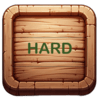
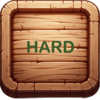
cleaner buttons

diff --git a/app/src/main/java/projet/approche/objet/ui/view/infoBar/InfoBar.java b/app/src/main/java/projet/approche/objet/ui/view/infoBar/InfoBar.java
@@ -1,40 +1,68 @@
 package projet.approche.objet.ui.view.infoBar;
 
+import java.awt.Image;
+
+import javafx.geometry.Insets;
+import javafx.scene.effect.ColorAdjust;
+import javafx.scene.image.ImageView;
 import javafx.scene.layout.BorderPane;
+import javafx.scene.layout.HBox;
 import javafx.scene.text.Font;
 import javafx.scene.text.Text;
 import projet.approche.objet.application.App;
+import projet.approche.objet.domain.valueObject.game.GameStarter;
+import projet.approche.objet.infrastructure.Infrastructure;
 import projet.approche.objet.ui.view.GameView;
 import projet.approche.objet.ui.view.Updateable;
+import projet.approche.objet.ui.view.imageResource.ButtonImageResource;
 
 public class InfoBar extends BorderPane implements Updateable {
 
 	private final Inventory inventory;
-	private final Button button;
+	private final Button playPauseButton;
 	private final App app;
 	private Text day = new Text();
 
 	public InfoBar(GameView gv, App app) {
 		this.inventory = new Inventory(app);
-		this.button = new Button(gv, app);
+		HBox buttonBox = new HBox();
+		buttonBox.setSpacing(15);
+		buttonBox.setPadding(new Insets(10));
+		this.playPauseButton = new Button(gv, app);
+		ImageView saveButton = new ImageView(ButtonImageResource.SAVE.getImage());
+
+		saveButton.setOnMouseClicked(e -> {
+			Infrastructure is = new Infrastructure();
+			is.save(app.getManager());
+		});
+
+		ColorAdjust colorAdjust = new ColorAdjust();
+		colorAdjust.setBrightness(-0.4);
+		saveButton.setOnMouseEntered(e -> {
+			saveButton.setEffect(colorAdjust);
+		});
+		saveButton.setOnMouseExited(e -> {
+			saveButton.setEffect(null);
+		});
+
+		buttonBox.getChildren().addAll(playPauseButton, saveButton);
 		day.setFill(javafx.scene.paint.Color.BLACK);
 		day.setFont(new Font(20));
 		day.getStyleClass().add("number");
 		day.setCache(true);
 		this.app = app;
 		this.setRight(inventory);
-		this.setTop(button);
-		// show a text with the current day of the game
+		this.setTop(buttonBox);
 	}
 
 	public void update() {
 		this.inventory.update();
-		this.button.update();
+		this.playPauseButton.update();
 		this.updateDay();
 	}
 
 	public void updateDay() {
-		day.setText("Day " + app.getDay());
+		day.setText("   Day " + app.getDay());
 		this.setLeft(day);
 	}
 }

diff --git a/app/src/main/java/projet/approche/objet/ui/view/LevelButtons.java b/app/src/main/java/projet/approche/objet/ui/view/LevelButtons.java
@@ -11,14 +11,14 @@ import projet.approche.objet.application.App;
 import projet.approche.objet.domain.valueObject.game.GameStarter;
 import projet.approche.objet.domain.valueObject.game.PremadeLevel;
 import projet.approche.objet.infrastructure.Infrastructure;
-import projet.approche.objet.ui.view.imageResource.LevelButtonImageResource;
+import projet.approche.objet.ui.view.imageResource.ButtonImageResource;
 
 public class LevelButtons extends VBox {
 
-	private static final ImageView easy = new ImageView(LevelButtonImageResource.EASY.getImage());
-	private static final ImageView normal = new ImageView(LevelButtonImageResource.NORMAL.getImage());
-	private static final ImageView hard = new ImageView(LevelButtonImageResource.HARD.getImage());
-	private static final ImageView load = new ImageView(LevelButtonImageResource.LOAD.getImage());
+	private static final ImageView easy = new ImageView(ButtonImageResource.EASY.getImage());
+	private static final ImageView normal = new ImageView(ButtonImageResource.NORMAL.getImage());
+	private static final ImageView hard = new ImageView(ButtonImageResource.HARD.getImage());
+	private static final ImageView load = new ImageView(ButtonImageResource.LOAD.getImage());
 
 	public LevelButtons(Stage stage) {
 		HBox levels = new HBox();

diff --git a/app/src/main/java/projet/approche/objet/ui/view/infoBar/Button.java b/app/src/main/java/projet/approche/objet/ui/view/infoBar/Button.java
@@ -1,6 +1,7 @@
 package projet.approche.objet.ui.view.infoBar;
 
 import javafx.geometry.Insets;
+import javafx.scene.effect.ColorAdjust;
 import javafx.scene.image.ImageView;
 import javafx.scene.layout.HBox;
 import javafx.scene.layout.VBox;
@@ -24,7 +25,6 @@ public class Button extends VBox implements Updateable {
 		this.app = app;
 		this.button = new HBox();
 		this.button.setAlignment(javafx.geometry.Pos.CENTER);
-		button.setPadding(new Insets(40));
 		button.setCache(true);
 		button.getChildren().addAll(play);
 		button.setOnMouseClicked(e -> {
@@ -60,6 +60,15 @@ public class Button extends VBox implements Updateable {
 					break;
 			}
 			this.update();
+		});
+
+		ColorAdjust colorAdjust = new ColorAdjust();
+		colorAdjust.setBrightness(-0.4);
+		button.setOnMouseEntered(e -> {
+			button.setEffect(colorAdjust);
+		});
+		button.setOnMouseExited(e -> {
+			button.setEffect(null);
 		});
 		getChildren().addAll(button);
 	}

diff --git a/app/src/main/java/projet/approche/objet/ui/view/imageResource/ButtonImageResource.java b/app/src/main/java/projet/approche/objet/ui/view/imageResource/ButtonImageResource.java
@@ -4,13 +4,18 @@ import javafx.scene.image.Image;
 
 public enum ButtonImageResource {
 
+	EASY("Easy.png"),
+	NORMAL("Normal.png"),
+	HARD("Hard.png"),
+	LOAD("Load.png"),
+	SAVE("Save.png"),
 	PLAY("Play.png"),
 	PAUSE("Pause.png");
 
 	private final Image image;
 
-	public static final int width = 96;
-	public static final int height = 56;
+	public static final int width = 100;
+	public static final int height = 100;
 
 	ButtonImageResource(String file) {
 		try {
